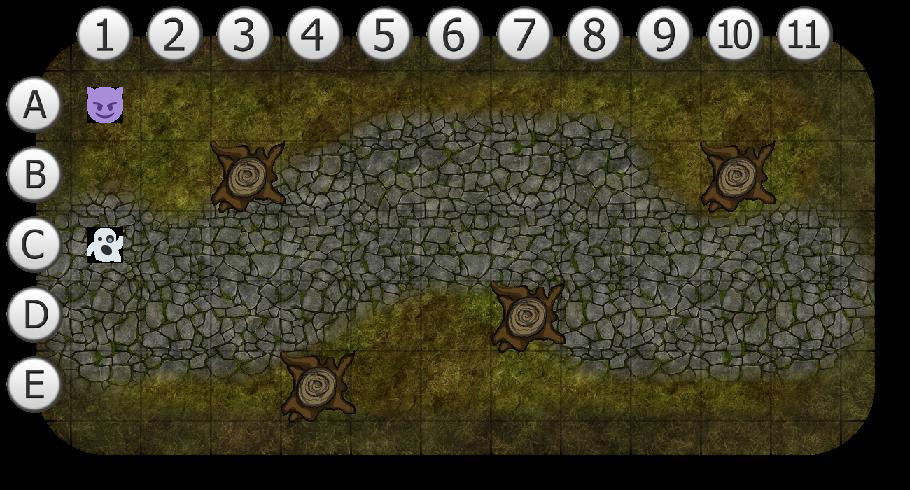
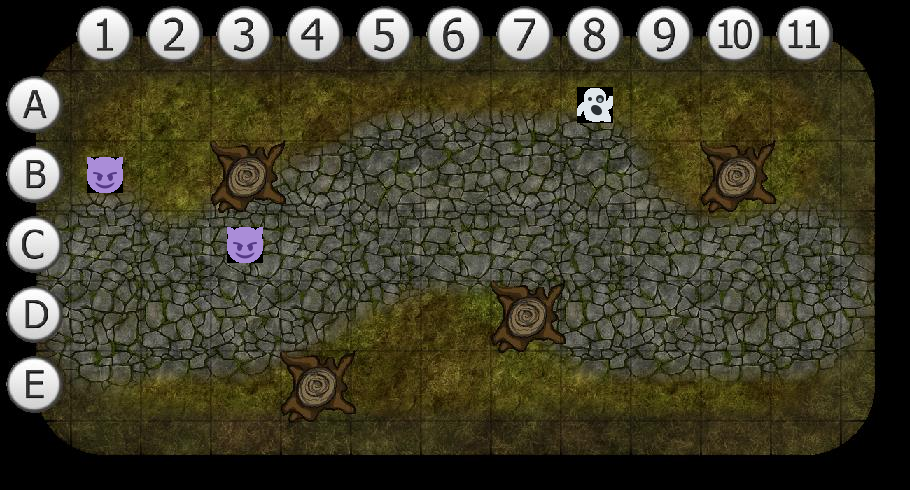
Updated fighting to allow for player and monster death Fixed the glitch when using &attack and not near a monster would skip your turn

diff --git a/utils/locations.py b/utils/locations.py
@@ -130,7 +130,7 @@ class BaseMap:
             total_level += follower_character.level
 
             party.append((follower_discord_user, follower_character))
-            location.place_person_on_map(follower_character, (1, number + 2))
+            location.place_person_on_map(follower_character, (number + 2, random.randint(1, 3)))
 
         spawning_monsters = math.ceil(total_level/10)
 
@@ -144,13 +144,16 @@ class BaseMap:
             monsters.append(spawned_monster)
             location.place_person_on_map(spawned_monster, (9, number+1))
 
-        while True:
-            image = location.draw_to_map(party[0][1], party[0][1].last_cords)
-            for char in party:
-                image = location.draw_to_map(char[1], char[1].last_cords, image)
+        # Now we place all on the map before anyone makes a move
+        image = location.draw_to_map(party[0][1], party[0][1].last_cords)
+        for player in party[1:]:
+            image = location.draw_to_map(player[1], player[1].last_cords, image)
+        for player in monsters:
+            image = location.draw_to_map(player, player.last_cords, image)
 
-                for mons in monsters:
-                    image = location.draw_to_map(mons, mons.last_cords, image)
+        while True:
+            for char in party:
+                attacking = 0
                 embed = discord.Embed(title="Actions", color=discord.Color.green())
                 embed.add_field(name=f"What action do you want to perform {char[0].name}?", value="__Move__: **&move <up | down | left | right>**\n__Pass__: **&pass**\n__Attack__: **&attack**")
                 files = [discord.File('images/modified/modified_map.png')]
@@ -195,37 +198,63 @@ class BaseMap:
                         else:
                             continue
                     elif command in ["&a", "&att", "&attack"]:
-                        near_monster_list = location.is_near_monster(char[1], monsters)
-                        if not near_monster_list:
-                            await ctx.send("No monsters near you to attack!")
-                        elif len(near_monster_list) > 1:
-                            await ctx.send(
-                                f"There are {len(near_monster_list)} monsters near you! What one do you want to attack?\n{', '.join([f'{enum + 1}) {monster.name}' for enum, monster in enumerate(near_monster_list)])}")
-                            while True:
-                                attacking = await bot.wait_for('message', check=lambda check: check.author.id == ctx.author.id)
-                                try:
-                                    attacking_num = int(attacking)
-                                    if attacking_num in range(len(near_monster_list)):
-                                        player_damage, weapon = char[1].attack(near_monster_list[attacking])
-                                        await ctx.send(f"{char[1].name} attacked {near_monster_list[attacking].name} with {weapon} and hit them for {player_damage} damage! {near_monster_list[attacking].name} now has {near_monster_list[attacking].health} health left!")
-                                    else:
+                        while True:
+                            near_monster_list = location.is_near_monster(char[1], monsters)
+                            if not near_monster_list:
+                                await ctx.send("No monsters near you to attack!")
+                            elif len(near_monster_list) > 1:
+                                await ctx.send(f"There are {len(near_monster_list)} monsters near you! What one do you want to attack?\n{', '.join([f'{enum + 1}) {monster.name}' for enum, monster in enumerate(near_monster_list)])}")
+                                while True:
+                                    attacking = await bot.wait_for('message', check=lambda check: check.author.id == ctx.author.id)
+                                    try:
+                                        attacking_num = int(attacking)
+                                        if attacking_num in range(len(near_monster_list)):
+                                            break
+                                        else:
+                                            continue
+                                    except ValueError:
                                         continue
-                                except ValueError:
-                                    continue
-                        else:
-                            player_damage, weapon = char[1].attack(near_monster_list[0])
-                            await ctx.send(f"{char[1].name} attacked {near_monster_list[0].name} with {weapon} and hit them for {player_damage} damage! {near_monster_list[0].name} now has {near_monster_list[0].health} health left!")
+                            else:
+                                player_damage, weapon = char[1].attack(near_monster_list[attacking])
+                                await ctx.send(f"{char[1].name} attacked {near_monster_list[attacking].name} with {weapon} and hit them for {player_damage} damage! {near_monster_list[attacking].name} now has {near_monster_list[attacking].health} health left!")
+                                if near_monster_list[attacking].health <= 0:
+                                    monsters.remove(near_monster_list[attacking])
+                                break
                     elif command in ['&pass']:
                         pass
 
-                    for monst in monsters:
-                        moved, monster_damage = location.target_player(monst, char[1])
-                        if moved:
-                            pass
-                        else:
-                            await ctx.send(f"{char[1].name} was attacked by {monst.name} using {monster_damage[1]} for {monster_damage[0]} damage! You now have {char[1].health} health left")
+                    image = location.draw_to_map(party[0][1], party[0][1].last_cords)
+                    for player in party[1:]:
+                        image = location.draw_to_map(player[1], player[1].last_cords, image)
+                    for monster in monsters:
+                        image = location.draw_to_map(monster, monster.last_cords, image)
                 except ValueError:
                     continue
+
+            for monster in monsters:
+                char = self.find_closest_player(party, monster)
+                moved, monster_damage = location.target_player(monster, char)
+                if moved:
+                    pass
+                else:
+                    if char[1].died:
+                        died = User(None, None, char[0])
+                        if died.character_1 == died.active_character:
+                            d_column = 'character_1'
+                        elif died.character_2 == died.active_character:
+                            d_column = 'character_2'
+                        elif died.character_3 == died.active_character:
+                            d_column = 'character_3'
+                        else:
+                            return
+                        died.update_value(d_column, None)
+                        await ctx.send(f"{monster.name} hit {char[1].name} with {monster_damage[1]} for {monster_damage[1]} damage and killed them!!")
+                    else:
+                        await ctx.send(f"{char[1].name} was attacked by {monster.name} using {monster_damage[1]} for {monster_damage[0]} damage! You now have {char[1].health} health left")
+                image = location.draw_to_map(party[0][1], party[0][1].last_cords)
+                image = location.draw_to_map(monster, monster.last_cords, image)
+                for player in party[1:]:
+                    image = location.draw_to_map(player[1], player[1].last_cords, image)
 
     def draw_to_map(self, item, location, modified_image_path=None):
 
@@ -263,25 +292,28 @@ class BaseMap:
         except IndexError:
             return False, None
 
-    def find_closest_player(self, monster):
-        ends = []
+    def find_closest_player(self, characters, monster):
+        if monster.target:
+            for char in characters:
+                if char[0].id == monster.target:
+                    if char[0].health <= 0:
+                        break
+                    return char[1]
+
+        chars = [char for char in characters]
         lowest_length = float('inf')
-        lowest_length_cords = None
+        closest = None
         start = monster.last_cords
-        for x in self.map:
-            for y in x:
-                if y in [1, 2, 3, 4]:
-                    ends.append((self.map.index(x), x.index(y)))
-        for end in ends:
-            path = astar(self.map, start, end, monster)
+        for char in chars:
+            path = astar(self.map, start, char[1].last_cords, monster)
             if len(path) < lowest_length:
                 lowest_length = len(path)
-                lowest_length_cords = path
-        return lowest_length_cords
+                closest = char[1]
+                monster.target = char[0].id
+        return closest
 
     def target_player(self, monster, player):
         path = astar(self.map, monster.last_cords, player.last_cords, monster)
-        print(path)
         if len(path) > 2:
             self.map[path[1][0]][path[1][1]] = monster.number
             self.map[monster.last_cords[0]][monster.last_cords[1]] = 0

diff --git a/cogs/commands.py b/cogs/commands.py
@@ -388,7 +388,7 @@ class General(commands.Cog):
         elif user.character_3 == user.active_character:
             column = 'character_3'
         else:
-            return await ctx.send("INVALID PLAYER DATA")
+            return
 
         if character.in_party and character.party_master != ctx.author.id:
             return await ctx.send("You must `&leave` your current party to travel!")

diff --git a/utils/characters.py b/utils/characters.py
@@ -308,6 +308,11 @@ class BaseCharacter:
             attacked = weapon_1.attack(self, monster)
         return attacked, weapon_1.name
 
+    def died(self):
+        if self._health >= 1:
+            return False
+        return True
+
 
 class Demon(BaseCharacter):
     def __init__(self, initial_data):
